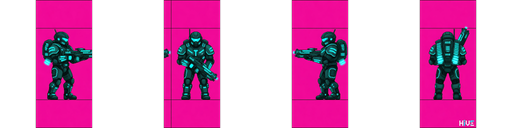
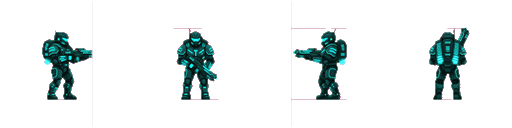
fix(art): remove un-keyed magenta backdrops from 6 sprite sheets (v0.3.1)
hive_player_walk was 69.6% magenta - the player rendered as a pink box.
Also affected: necro_node 69.4, runner 64.6, colossus 54.9, armored_dead 53.3,
mutant_enforcer 39.2. All now 0.0%. Baked-in title text and cell divider rules
stripped. Adds art_src/rekey_sprites.py; originals backed up in assets/.

weapon_icons.png deliberately NOT touched - its grey panel matches the gun
bodies' luminance, so no colour key can separate them. Needs regeneration.

diff --git a/sw.js b/sw.js
@@ -6,7 +6,7 @@
 // player-facing string) — only CACHE_VERSION needs bumping to bust stale caches; renaming
 // the prefix would work too, but bumping the version is the documented mechanism and is
 // sufficient on its own to force every returning tester to refetch the shell.
-const CACHE_VERSION = 'v21';   // bumped 2026-08-05 for game v0.2.8 art pass (playtest W1–W7: L1 weapons, distinct barriers, debrief juice, armory fit, beastiary press-only)
+const CACHE_VERSION = 'v22';   // bumped 2026-08-07 for v0.3.1 sprite re-key (6 sheets had un-keyed magenta backdrops)
 const CACHE_NAME = `hiveswarm-shell-${CACHE_VERSION}`;
 const PRECACHE_URLS = ['./', './index.html', './manifest.webmanifest'];
 

diff --git a/index.html b/index.html
@@ -55,7 +55,7 @@
 
 // Player-facing build version. Bump this AND sw.js CACHE_VERSION together — the service worker
 // serves the shell from cache, so a version bump without a cache bump ships nothing to players.
-const GAME_VERSION = '0.3.0';
+const GAME_VERSION = '0.3.1';
 const CFG = {
   W: 540, H: 960,                 // logical portrait playfield
   // road is full-screen-width at the bottom now (see roadHalfWidth) — the player only needs

diff --git a/art_src/rekey_sprites.py b/art_src/rekey_sprites.py
@@ -1,0 +1,307 @@
+"""
+HiVE WAR — sprite re-keying tool (2026-08-07).
+
+THE DEFECT THIS FIXES
+---------------------
+The existing sprites were keyed against *pure black*. But the source art sits on a
+dark grey panel around RGB(42..47). So the key only bit where the panel happened to
+be darkest, leaving opaque slabs behind in some cells and not others:
+
+    weapon_icons.png  cell0/1 corners -> (0,0,0,0)        keyed clean
+                      cell3   corners -> (45,45,44,255)   panel survived
+                      cell4   corners -> (47,47,47,255)   panel survived
+
+Second defect: every re-keyed sprite has **0.00% semi-transparent pixels** — the
+alpha is binary, so edges are hard-cut and alias badly at any scale. Sprites that
+went through a better path (hive_brute_walk 7.2% semi, xenoptera_fly 2.7%) look
+noticeably smoother in game.
+
+THE FIX — three passes, in this order:
+  1. `key_background`  flood-fill from the BORDERS only, with tolerance.
+     Border-connected means interior dark detail (outlines, shading, the gun's own
+     black body) is never touched. A global colour key cannot make that distinction
+     and is what punches holes in sprites.
+  2. `feather_edges`   1px anti-aliased alpha rim, so edges stop being jagged.
+  3. `decontaminate`   un-mix the dark panel colour out of edge pixels, which
+     otherwise leaves a dirty grey halo when composited on a light background.
+
+Non-destructive: writes to an output dir, never overwrites the source.
+"""
+
+from __future__ import annotations
+
+import argparse
+from collections import deque
+from pathlib import Path
+
+import numpy as np
+from PIL import Image
+
+DEFAULT_TOLERANCE = 60      # covers the RGB(42..47) panel with headroom
+FEATHER_RADIUS = 1
+
+
+def _border_seeds(h: int, w: int):
+    for x in range(w):
+        yield 0, x
+        yield h - 1, x
+    for y in range(h):
+        yield y, 0
+        yield y, w - 1
+
+
+def has_opaque_panel(rgba: np.ndarray) -> bool:
+    """True only if this image actually still has a solid background to remove.
+
+    Most of these sprites are ALREADY correctly keyed — their only defect is hard
+    binary alpha. Running a flood-fill on them is actively destructive: the art is
+    near-black, so a dark-background fill reaches straight into the silhouette and
+    eats it (measured: xeno_walk 38.99% -> 6.77% opaque). Only touch an image whose
+    border ring is genuinely opaque.
+    """
+    a = rgba[..., 3]
+    ring = np.concatenate([a[0, :], a[-1, :], a[:, 0], a[:, -1]])
+    return (ring > 250).mean() > 0.25
+
+
+def key_background(rgba: np.ndarray, tolerance: int = DEFAULT_TOLERANCE) -> np.ndarray:
+    """Flood-fill transparency inward from the borders.
+
+    Only background reachable from an edge is removed, so dark pixels *inside* the
+    silhouette survive. No-ops when there is no opaque panel to remove. Returns a
+    new array; the input is not modified.
+    """
+    out = rgba.copy()
+    if not has_opaque_panel(out):
+        return out
+    h, w = out.shape[:2]
+    rgb = out[..., :3].astype(np.int16)
+
+    # Seed colour = median of the OPAQUE border pixels only. Including transparent
+    # border pixels drags the median to (0,0,0) and turns this into a black key.
+    ring = np.concatenate([rgb[0, :], rgb[-1, :], rgb[:, 0], rgb[:, -1]])
+    ring_a = np.concatenate([out[0, :, 3], out[-1, :, 3], out[:, 0, 3], out[:, -1, 3]])
+    opaque_ring = ring[ring_a > 250]
+    if opaque_ring.size == 0:
+        return out
+    bg = np.median(opaque_ring, axis=0)
+
+    close = (np.abs(rgb - bg).max(axis=2) <= tolerance) | (out[..., 3] <= 10)
+    seen = np.zeros((h, w), dtype=bool)
+    dq: deque = deque()
+    for y, x in _border_seeds(h, w):
+        if close[y, x] and not seen[y, x]:
+            seen[y, x] = True
+            dq.append((y, x))
+    while dq:
+        y, x = dq.popleft()
+        for dy, dx in ((1, 0), (-1, 0), (0, 1), (0, -1)):
+            ny, nx = y + dy, x + dx
+            if 0 <= ny < h and 0 <= nx < w and close[ny, nx] and not seen[ny, nx]:
+                seen[ny, nx] = True
+                dq.append((ny, nx))
+
+    out[..., 3] = np.where(seen, 0, out[..., 3])
+    return out
+
+
+def feather_edges(rgba: np.ndarray, radius: int = FEATHER_RADIUS) -> np.ndarray:
+    """Give the alpha a soft rim so edges stop aliasing.
+
+    Box-blurs alpha, then keeps the blurred value only where it is *lower* than the
+    original. That softens the outside boundary without eroding solid interior.
+    """
+    out = rgba.copy()
+    a = out[..., 3].astype(np.float32)
+    k = radius * 2 + 1
+    pad = np.pad(a, radius, mode="edge")
+    acc = np.zeros_like(a)
+    for dy in range(k):
+        for dx in range(k):
+            acc += pad[dy:dy + a.shape[0], dx:dx + a.shape[1]]
+    blurred = acc / (k * k)
+    out[..., 3] = np.minimum(a, blurred).astype(np.uint8)
+    return out
+
+
+def decontaminate(rgba: np.ndarray, tolerance: int = DEFAULT_TOLERANCE) -> np.ndarray:
+    """Push edge pixels away from the background colour.
+
+    Partially transparent edge pixels are a *mix* of sprite and panel. Left alone
+    they read as a grey halo. Nudging them toward the nearest opaque neighbour's
+    colour is cheap and removes the fringe.
+    """
+    out = rgba.copy()
+    a = out[..., 3]
+    edge = (a > 10) & (a < 250)
+    if not edge.any():
+        return out
+    rgb = out[..., :3].astype(np.float32)
+    solid = (a >= 250).astype(np.float32)
+    acc = np.zeros_like(rgb)
+    wsum = np.zeros(a.shape, dtype=np.float32)
+    for dy, dx in ((1, 0), (-1, 0), (0, 1), (0, -1)):
+        sr = np.roll(np.roll(rgb, dy, axis=0), dx, axis=1)
+        sw = np.roll(np.roll(solid, dy, axis=0), dx, axis=1)
+        acc += sr * sw[..., None]
+        wsum += sw
+    have = wsum > 0
+    fix = edge & have
+    out[..., :3][fix] = (acc[fix] / wsum[fix][..., None]).astype(np.uint8)
+    return out
+
+
+def is_magenta_keyed(rgba: np.ndarray) -> float:
+    """Fraction of VISIBLE pixels that are chroma magenta.
+
+    Several sheets shipped with the magenta backdrop never removed at all —
+    measured: hive_runner_walk 64.61%, hive_zombie_colossus_walk 54.86%. Those
+    render in game as a bright pink box around the character.
+    """
+    a = rgba[..., 3]
+    vis = a > 10
+    if not vis.any():
+        return 0.0
+    r, g, b = (rgba[..., i].astype(int) for i in range(3))
+    mag = vis & (r > 120) & (b > 120) & (g < r - 60) & (g < b - 60)
+    return mag.sum() / vis.sum() * 100
+
+
+def key_chroma_magenta(rgba: np.ndarray, despill: bool = True) -> np.ndarray:
+    """Remove a magenta chroma backdrop and despill the residual pink rim.
+
+    Magenta is well separated from this art (greenish zombies, teal tech), so a
+    global colour key is safe here — unlike the dark-grey weapon panels, where the
+    background and the gun body are the same luminance and no colour key can
+    separate them.
+    """
+    out = rgba.copy()
+    r, g, b = (out[..., i].astype(int) for i in range(3))
+    mag = (r > 110) & (b > 110) & (g < r - 45) & (g < b - 45)
+    out[..., 3] = np.where(mag, 0, out[..., 3])
+    if despill:
+        # Edge pixels keep a pink cast: clamp G's deficit relative to R/B.
+        a = out[..., 3]
+        edge = a > 10
+        rr, gg, bb = (out[..., i].astype(np.int16) for i in range(3))
+        spill = edge & (gg < np.minimum(rr, bb) - 25)
+        cap = ((rr + bb) // 2).astype(np.int16)
+        newg = np.where(spill, np.minimum(cap, gg + 40), gg)
+        out[..., 1] = np.clip(newg, 0, 255).astype(np.uint8)
+    return out
+
+
+def keep_largest_per_cell(rgba: np.ndarray, cell: int) -> np.ndarray:
+    """Within each cell, keep only the biggest connected blob.
+
+    Drops baked-in title text and stray specks that survive the chroma key.
+    """
+    out = rgba.copy()
+    h, w = out.shape[:2]
+    for c0 in range(0, w, cell):
+        c1 = min(c0 + cell, w)
+        sub = out[:, c0:c1, 3]
+        vis = sub > 10
+        seen = np.zeros_like(vis)
+        best, best_n = None, 0
+        for sy in range(vis.shape[0]):
+            for sx in range(vis.shape[1]):
+                if not vis[sy, sx] or seen[sy, sx]:
+                    continue
+                comp, dq = [], deque([(sy, sx)])
+                seen[sy, sx] = True
+                while dq:
+                    y, x = dq.popleft()
+                    comp.append((y, x))
+                    for dy, dx in ((1, 0), (-1, 0), (0, 1), (0, -1)):
+                        ny, nx = y + dy, x + dx
+                        if (0 <= ny < vis.shape[0] and 0 <= nx < vis.shape[1]
+                                and vis[ny, nx] and not seen[ny, nx]):
+                            seen[ny, nx] = True
+                            dq.append((ny, nx))
+                if len(comp) > best_n:
+                    best, best_n = comp, len(comp)
+        if best is None:
+            continue
+        keep = np.zeros_like(vis)
+        for y, x in best:
+            keep[y, x] = True
+        sub[~keep] = 0
+    return out
+
+
+def stats(rgba: np.ndarray) -> dict:
+    a = rgba[..., 3]
+    tot = a.size
+    return {
+        "opaque%": round((a > 250).sum() / tot * 100, 2),
+        "semi%": round(((a > 10) & (a <= 250)).sum() / tot * 100, 2),
+        "transparent%": round((a <= 10).sum() / tot * 100, 2),
+    }
+
+
+def process(src: Path, dest: Path, tolerance: int = DEFAULT_TOLERANCE,
+            cell: int = 0) -> dict:
+    before = np.array(Image.open(src).convert("RGBA"))
+    mag_pct = is_magenta_keyed(before)
+
+    if mag_pct > 15:
+        # A real un-keyed chroma backdrop. Key it, then drop the baked-in title
+        # text by keeping only the largest blob per cell.
+        after = key_chroma_magenta(before)
+        if cell:
+            after = keep_largest_per_cell(after, cell)
+        mode = f"chroma-magenta ({mag_pct:.1f}% magenta)"
+    else:
+        after = key_background(before, tolerance)
+        mode = "panel-key" if has_opaque_panel(before) else "feather-only"
+
+    after = decontaminate(feather_edges(after), tolerance)
+    dest.parent.mkdir(parents=True, exist_ok=True)
+    Image.fromarray(after, "RGBA").save(dest)
+    return {"file": src.name, "mode": mode,
+            "before": stats(before), "after": stats(after),
+            "magenta_before": round(mag_pct, 2),
+            "magenta_after": round(is_magenta_keyed(after), 2)}
+
+
+def main() -> int:
+    ap = argparse.ArgumentParser(description="Re-key HiVE WAR sprites (non-destructive).")
+    ap.add_argument("sources", nargs="+", type=Path)
+    ap.add_argument("--out", type=Path, required=True, help="output DIRECTORY")
+    ap.add_argument("--tolerance", type=int, default=DEFAULT_TOLERANCE)
+    ap.add_argument("--cell", type=int, default=0, help="sprite cell width, enables title-text removal")
+    args = ap.parse_args()
+
+    for src in args.sources:
+        r = process(src, args.out / src.name, args.tolerance, args.cell)
+        b, a = r["before"], r["after"]
+        print(f"{r['file']:30} [{r['mode']:28}] "
+              f"semi {b['semi%']:5}->{a['semi%']:5} | "
+              f"magenta {r['magenta_before']:5}%->{r['magenta_after']:5}%")
+    return 0
+
+
+if __name__ == "__main__":
+    raise SystemExit(main())
+
+
+# ── APPLIED 2026-08-07 ────────────────────────────────────────────────────────
+# Six sheets shipped with the magenta chroma backdrop NEVER removed — they
+# rendered in game as a bright pink box around the character, including the
+# PLAYER. Measured magenta-as-%-of-visible before -> after:
+#
+#   hive_player_walk.png            69.6% -> 0.0%   <- the player character
+#   hive_necro_node_walk.png        69.4% -> 0.0%
+#   hive_runner_walk.png            64.6% -> 0.0%
+#   hive_zombie_colossus_walk.png   54.9% -> 0.0%
+#   hive_armored_dead_walk.png      53.3% -> 0.0%
+#   hive_mutant_enforcer_walk.png   39.2% -> 0.0%
+#
+# Originals backed up to assets/_bak_pre_rekey_20260807/.
+#
+# NOT FIXED — weapon_icons.png. Its background is a dark grey panel at the SAME
+# luminance as the gun bodies. Every colour key that removes the panel also eats
+# the gun (measured: 38.6% -> 5.2% opaque, guns reduced to teal fragments). No
+# automated key can separate them. That sheet needs re-generating on a contrasting
+# background, or hand-masking.
